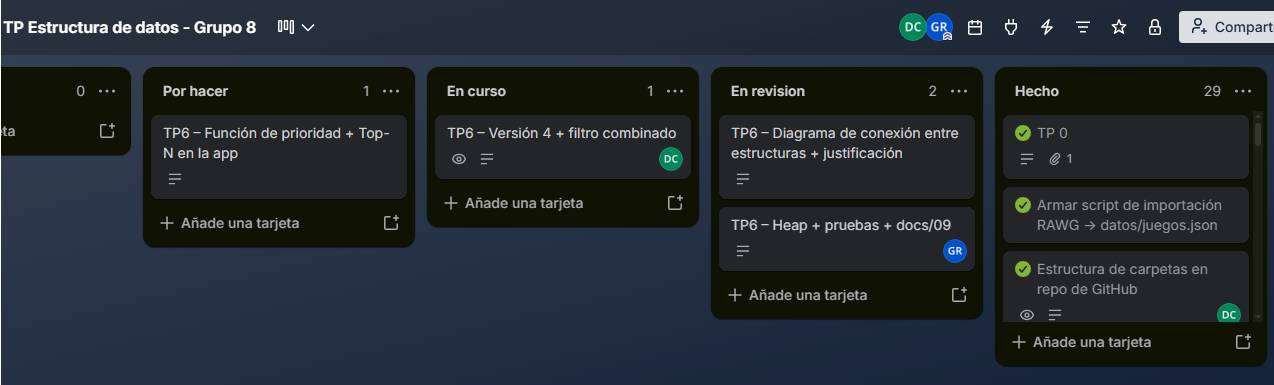
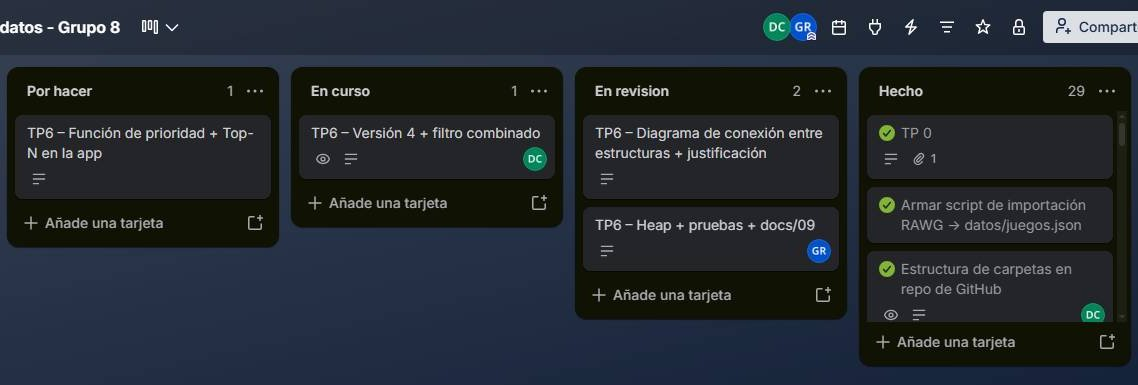
TP 7: Actualiza gestion de proyecto

diff --git a/docs/05-gestion-proyecto.md b/docs/05-gestion-proyecto.md
@@ -24,7 +24,7 @@ El objetivo del sprint fue completar las tareas correspondientes al TP1 y organi
 Se incluyen capturas del tablero como evidencia de su utilización durante el desarrollo del TP1.
 <img src="./capturas/trello-tp1.jpg" alt="Tablero de Trello" width="500">
 
-## Sprint 12 - TP2
+## Sprint 2 - TP2
 
 El objetivo del sprint fue completar las tareas correspondientes al TP2 y organizar el trabajo del equipo mediante el tablero de Trello.
 
@@ -68,3 +68,12 @@ El objetivo del sprint fue completar las tareas correspondientes al TP6 y organi
 
 Se incluyen capturas del tablero como evidencia de su utilización durante el desarrollo del TP6.
 <img src="./capturas/trello-tp6.jpg" alt="Tablero de Trello" width="500">
+
+## Sprint 7 - TP7
+
+El objetivo del sprint fue completar las tareas correspondientes al TP7 y organizar el trabajo del equipo mediante el tablero de Trello.
+
+### Evidencia
+
+Se incluyen capturas del tablero como evidencia de su utilización durante el desarrollo del TP7.
+<img src="./capturas/trello-tp7.jpg" alt="Tablero de Trello" width="500">
